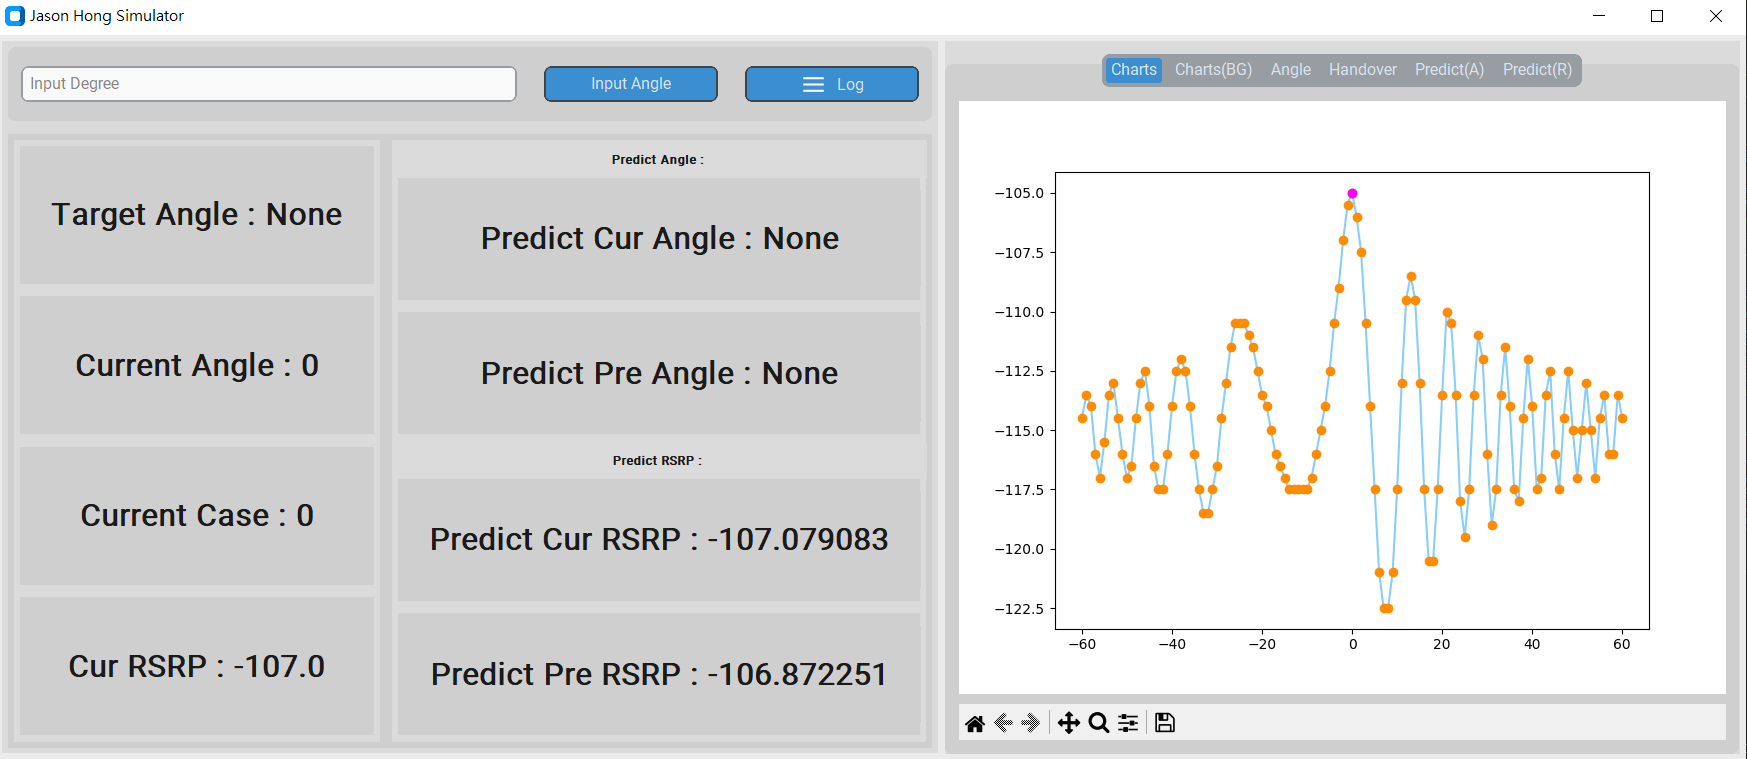
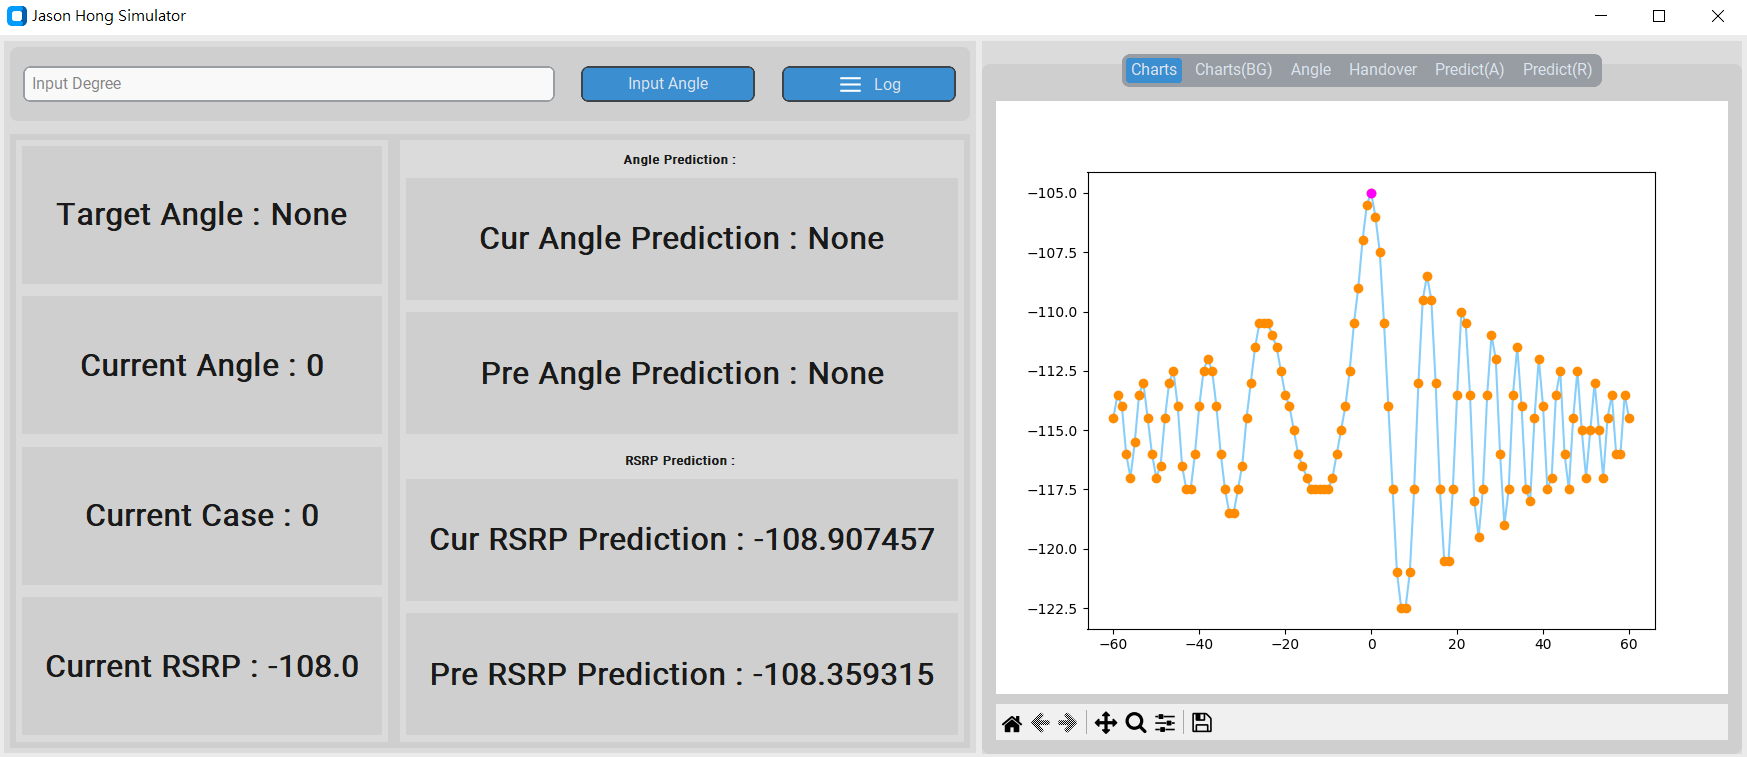
Update

diff --git a/GUI.py b/GUI.py
@@ -98,7 +98,7 @@ class App(customtkinter.CTk):
         self.RSRPFrame.grid_columnconfigure(0, weight=1)
         self.RSRPFrame.grid_rowconfigure(0, weight=1)
 
-        self.RSRPLabel = customtkinter.CTkLabel(self.RSRPFrame, text="Cur RSRP (case 0) : None", font=customtkinter.CTkFont(size=25, weight="bold"))
+        self.RSRPLabel = customtkinter.CTkLabel(self.RSRPFrame, text="Current RSRP (case 0) : None", font=customtkinter.CTkFont(size=25, weight="bold"))
         self.RSRPLabel.grid(row=0, column=0, padx=(0,0), pady=10, sticky="nsew")
 
         # ===============  Right Frame  ===============
@@ -108,7 +108,7 @@ class App(customtkinter.CTk):
         self.RightFrame.grid_rowconfigure((1,2,4,5), weight=1)
 
         # Predict Angle Label
-        self.PredictRSRPLabel = customtkinter.CTkLabel(self.RightFrame, text="Predict Angle : ", font=customtkinter.CTkFont(size=10, weight="bold"))
+        self.PredictRSRPLabel = customtkinter.CTkLabel(self.RightFrame, text="Angle Prediction : ", font=customtkinter.CTkFont(size=10, weight="bold"))
         self.PredictRSRPLabel.grid(row=0, column=0, padx=(0,0), pady=(2,0), sticky="ew")
 
         # Predict Angle (Cur)
@@ -117,7 +117,7 @@ class App(customtkinter.CTk):
         self.PredictCurAngleFrame.grid_columnconfigure(0, weight=1)
         self.PredictCurAngleFrame.grid_rowconfigure(0, weight=1)
 
-        self.PredictCurAngleLabel = customtkinter.CTkLabel(self.PredictCurAngleFrame, text="Predict Cur Angle : None", font=customtkinter.CTkFont(size=25, weight="bold"))
+        self.PredictCurAngleLabel = customtkinter.CTkLabel(self.PredictCurAngleFrame, text="Cur Angle Prediction : None", font=customtkinter.CTkFont(size=25, weight="bold"))
         self.PredictCurAngleLabel.grid(row=0, column=0, padx=(0,0), pady=10, sticky="nsew")
 
         # Predict Angle (Recent)
@@ -126,11 +126,11 @@ class App(customtkinter.CTk):
         self.PredictPreAngleFrame.grid_columnconfigure(0, weight=1)
         self.PredictPreAngleFrame.grid_rowconfigure(0, weight=1)
 
-        self.PredictPreAngleLabel = customtkinter.CTkLabel(self.PredictPreAngleFrame, text="Predict Pre Angle : None", font=customtkinter.CTkFont(size=25, weight="bold"))
+        self.PredictPreAngleLabel = customtkinter.CTkLabel(self.PredictPreAngleFrame, text="Pre Angle Prediction : None", font=customtkinter.CTkFont(size=25, weight="bold"))
         self.PredictPreAngleLabel.grid(row=0, column=0, padx=(0,0), pady=10, sticky="nsew")
 
         # Predict RSRP Label
-        self.PredictRSRPLabel = customtkinter.CTkLabel(self.RightFrame, text="Predict RSRP : ", font=customtkinter.CTkFont(size=10, weight="bold"))
+        self.PredictRSRPLabel = customtkinter.CTkLabel(self.RightFrame, text="RSRP Prediction : ", font=customtkinter.CTkFont(size=10, weight="bold"))
         self.PredictRSRPLabel.grid(row=3, column=0, padx=(0,0), pady=(2,0), sticky="ew")
 
         # Predict RSRP (Cur)
@@ -139,7 +139,7 @@ class App(customtkinter.CTk):
         self.PredictCurRSRPFrame.grid_columnconfigure(0, weight=1)
         self.PredictCurRSRPFrame.grid_rowconfigure(0, weight=1)
 
-        self.PredictCurRSRPLabel = customtkinter.CTkLabel(self.PredictCurRSRPFrame, text="Predict Cur RSRP : None", font=customtkinter.CTkFont(size=25, weight="bold"))
+        self.PredictCurRSRPLabel = customtkinter.CTkLabel(self.PredictCurRSRPFrame, text="Cur RSRP Prediction : None", font=customtkinter.CTkFont(size=25, weight="bold"))
         self.PredictCurRSRPLabel.grid(row=0, column=0, padx=(0,0), pady=10, sticky="nsew")
 
         # Predict RSRP (Recent)
@@ -148,7 +148,7 @@ class App(customtkinter.CTk):
         self.PredictPreRSRPFrame.grid_columnconfigure(0, weight=1)
         self.PredictPreRSRPFrame.grid_rowconfigure(0, weight=1)
 
-        self.PredictPreRSRPLabel = customtkinter.CTkLabel(self.PredictPreRSRPFrame, text="Predict Pre RSRP : None", font=customtkinter.CTkFont(size=25, weight="bold"))
+        self.PredictPreRSRPLabel = customtkinter.CTkLabel(self.PredictPreRSRPFrame, text="Pre RSRP Prediction : None", font=customtkinter.CTkFont(size=25, weight="bold"))
         self.PredictPreRSRPLabel.grid(row=0, column=0, padx=(0,0), pady=10, sticky="nsew")
 
 
@@ -297,11 +297,11 @@ class App(customtkinter.CTk):
     def Updata(self):       # timer ?
         def Basic_GUI_Setting():
             self.CurAngleLabel.configure(text=f"Current Angle : {self.ParentComponent.Cur_Angle_Value}")
-            self.PredictCurAngleLabel.configure(text=f"Predict Cur Angle : {self.ParentComponent.AngleKalman.PredictResult}")
-            self.PredictPreAngleLabel.configure(text=f"Predict Pre Angle : {self.ParentComponent.AngleKalman.PrePredictResult}")
-            self.RSRPLabel.configure(text=f"Cur RSRP : {self.ParentComponent.Cur_RSRP_Value}")
-            self.PredictCurRSRPLabel.configure(text=f"Predict Cur RSRP : {self.ParentComponent.RSRPKalman.PredictResult:<10}")
-            self.PredictPreRSRPLabel.configure(text=f"Predict Pre RSRP : {self.ParentComponent.RSRPKalman.PrePredictResult:<10}")
+            self.PredictCurAngleLabel.configure(text=f"Cur Angle Prediction : {self.ParentComponent.AngleKalman.PredictResult}")
+            self.PredictPreAngleLabel.configure(text=f"Pre Angle Prediction : {self.ParentComponent.AngleKalman.PrePredictResult}")
+            self.RSRPLabel.configure(text=f"Current RSRP : {self.ParentComponent.Cur_RSRP_Value}")
+            self.PredictCurRSRPLabel.configure(text=f"Cur RSRP Prediction : {self.ParentComponent.RSRPKalman.PredictResult:<10}")
+            self.PredictPreRSRPLabel.configure(text=f"Pre RSRP Prediction : {self.ParentComponent.RSRPKalman.PrePredictResult:<10}")
             self.CurCaseLabel.configure(text=f"Current Case : {self.ParentComponent.Cur_Case_Value}")
 
         def Angle_TextBox():    
@@ -339,16 +339,16 @@ class App(customtkinter.CTk):
             # Predict TextBox(Angle)
             self.PredictAngleLogFrame.insert('end', f"{self.ParentComponent.current_time}\n")
             self.PredictAngleLogFrame.insert('end', f"Cur Angle : {self.ParentComponent.Cur_Angle_Value}\n")
-            self.PredictAngleLogFrame.insert('end', f"Predict Cur Angle : {self.ParentComponent.AngleKalman.PredictResult}\n")
-            self.PredictAngleLogFrame.insert('end', f"Predict Pre Angle : {self.ParentComponent.AngleKalman.PrePredictResult}\n")
+            self.PredictAngleLogFrame.insert('end', f"Cur Angle Prediction : {self.ParentComponent.AngleKalman.PredictResult}\n")
+            self.PredictAngleLogFrame.insert('end', f"Pre Angle Prediction : {self.ParentComponent.AngleKalman.PrePredictResult}\n")
             self.PredictAngleLogFrame.insert('end', f"=====================================\n")
             # self.PredictAngleLogFrame.see('end')      # 頁面滑到底 (滑鼠滾輪滑到底)
 
             # Predict TextBox(RSRP)
             self.PredictRSRPLogFrame.insert('end', f"{self.ParentComponent.current_time}\n")
-            self.PredictRSRPLogFrame.insert('end', f"Cur RSRP : {self.ParentComponent.Cur_RSRP_Value}\n")
-            self.PredictRSRPLogFrame.insert('end', f"Predict Cur RSRP : {self.ParentComponent.RSRPKalman.PredictResult}\n")
-            self.PredictRSRPLogFrame.insert('end', f"Predict Pre RSRP : {self.ParentComponent.RSRPKalman.PrePredictResult}\n")
+            self.PredictRSRPLogFrame.insert('end', f"Current RSRP : {self.ParentComponent.Cur_RSRP_Value}\n")
+            self.PredictRSRPLogFrame.insert('end', f"Cur RSRP Prediction : {self.ParentComponent.RSRPKalman.PredictResult}\n")
+            self.PredictRSRPLogFrame.insert('end', f"Pre RSRP Prediction: {self.ParentComponent.RSRPKalman.PrePredictResult}\n")
             self.PredictRSRPLogFrame.insert('end', f"=====================================\n")
             # self.PredictRSRPLogFrame.see('end')      # 頁面滑到底 (滑鼠滾輪滑到底)
         

diff --git a/Const.py b/Const.py
@@ -23,7 +23,7 @@ INTERVAL_TIME=0.25
 # HANDOVER_THRESHOLD=-110             # -105~-125
 # HANDOVER_THRESHOLD=-115             # -105~-125
 
-HANDOVER_THRESHOLD=-112             # -105~-125
+HANDOVER_THRESHOLD=-109             # -105~-125
 THRESHOLD_OFFEST = -6
 
 # Data Info
@@ -82,7 +82,7 @@ RECOVERY_ACTIVATE = False     # True    False
 
 # =====================================================
 # 當 RSRP 訊號變差，再多收集 n 筆資料
-CHECK_RSRP_AVG_NUM = 5
+CHECK_RSRP_AVG_NUM = 3
 
 
 

diff --git a/tempCodeRunnerFile.py b/tempCodeRunnerFile.py
@@ -1,0 +1,1 @@
+Cur RSRP

diff --git a/README.md b/README.md
@@ -1,1 +1,25 @@
 # RIS_Beam_Tracking_Simulator
+
+根據專題目標實作了一個簡易的模擬器，並提供GUI，以在沒有整個基站架構及RIS的狀況下，展示專題的成果。
+
+# GUI
+
+![image](https://github.com/JasonHongOO/RIS_Beam_Tracking_Simulator/blob/main/Image/1.PNG)
+
+參數說明
+
+- Target Angle : 指定 UE 移動的目標角度，可在上方的輸入欄輸入角度，並按下右邊的 Input Angle 按鈕，以改變 Target Angle 的數值
+
+- Current Angle :  UE 當前相對於 RIS 的角度，會逐漸向 Target Angle 移動
+
+- Current Case : 當前 RIS 的反射角度
+
+- Current RSRP : 模擬基站接收到的 RSRP，該數值會由 Current Case 所對應到的輻射場型上找到理論上此時UE應該要接收到的RSRP，接著再加上一個隨機數，模擬接收到的 RSRP 數值會浮動這件事
+
+- Cur Angle Prediction : 當前 Kalman Filter 預測 UE 相對於 RIS 的角度位置
+
+- Pre Angle Prediction : 前一筆 Cur Angle Prediction 的數值
+
+- Cur RSRP Prediction : 當前 Kalman Filter 預測 RSRP 的數值
+
+- Pre RSRP Prediction : 前一筆 Cur RSRP Prediction 的數值
